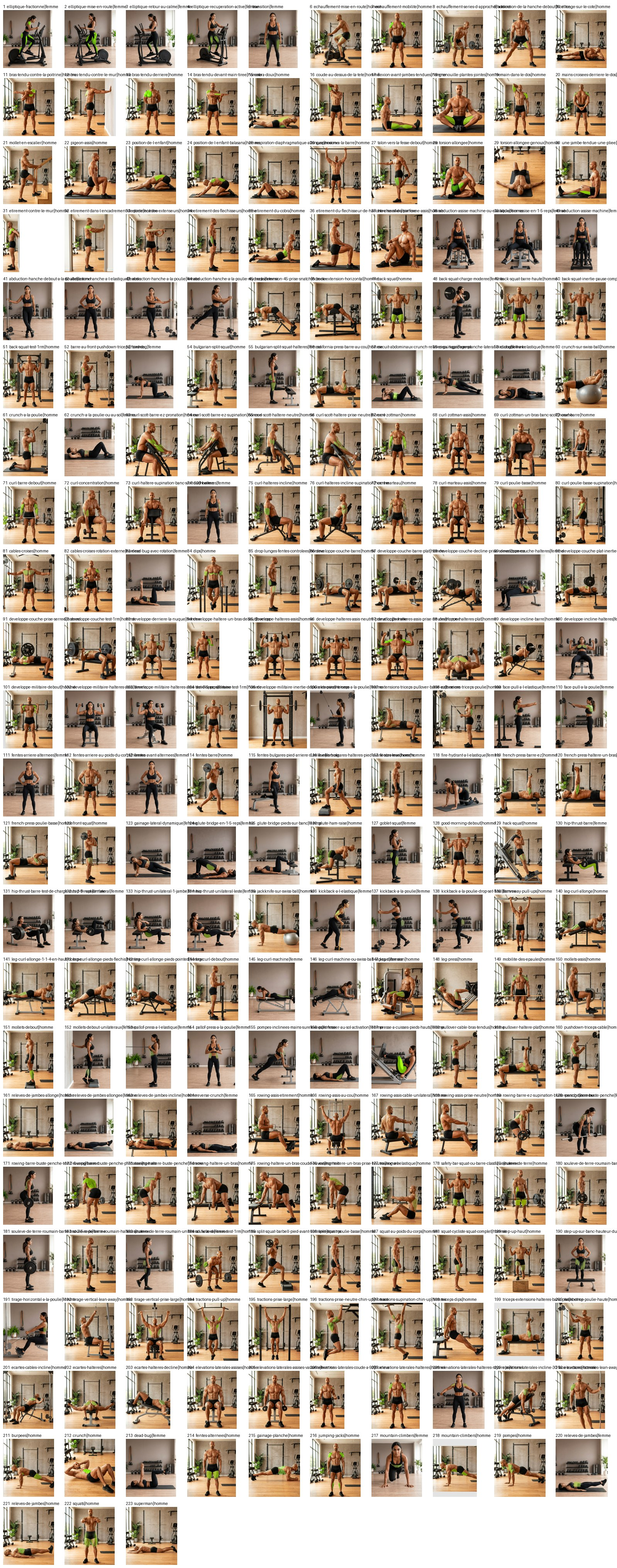
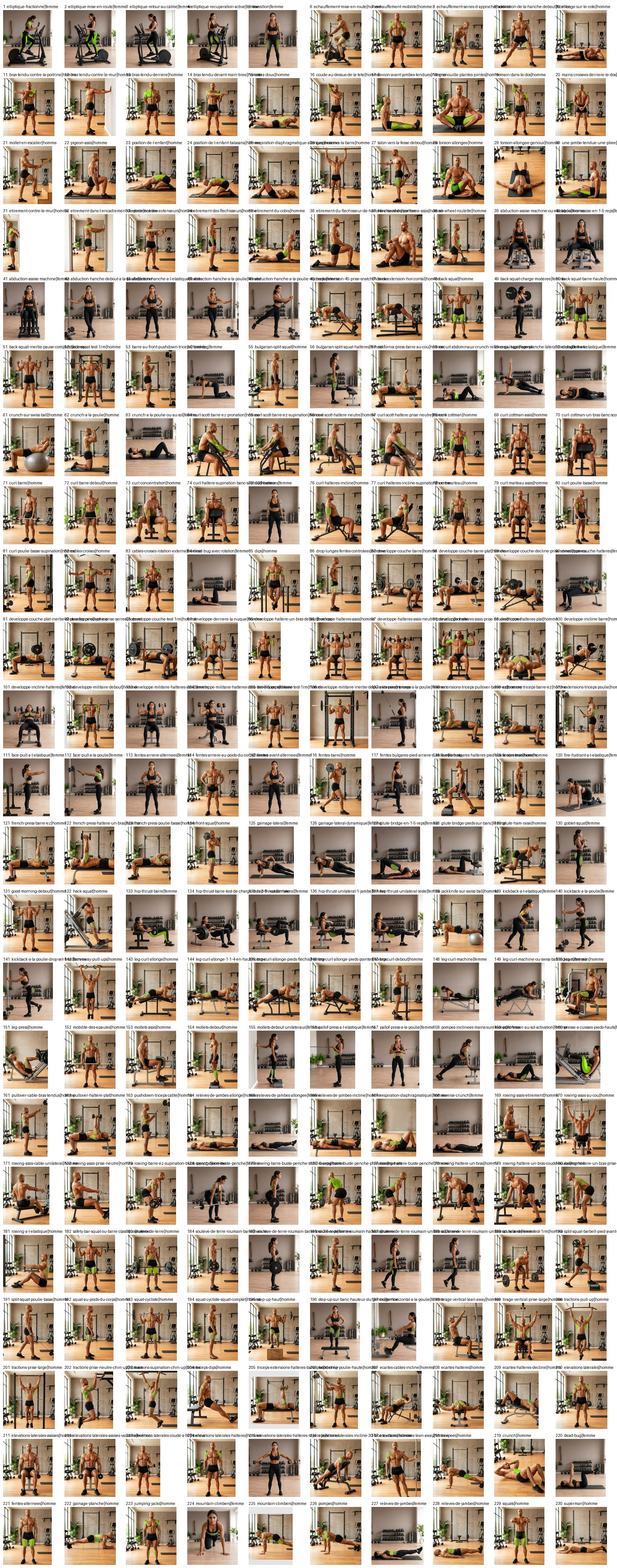
Lot 34 : ab-wheel et extensions EZ RESOLUS + 5 acceptees ; 3 refus (tirage neutre pronation, rack pull sans depart, mollets pied au sol) ; relecture-15 3/3 ; etat 230/331, 101 restants

diff --git a/evolution/media/refonte-photo/PASSATION-NOUVEAU-CHAT.md b/evolution/media/refonte-photo/PASSATION-NOUVEAU-CHAT.md
@@ -10,18 +10,18 @@ session neuve (sans mémoire de la conversation précédente) puisse continuer s
 - Dépôt : `Yandevil974/JARVIS-Fitness-Yanis-Emilie.apk`
 - Branche de travail **obligatoire** : `arena/01a0d6f5-jarvis-fitness-yanis-emilie-ap`
   (session Arena courante ; ne jamais pousser sur `main`, ne jamais créer d'autre branche).
-- Avancement : **223 / 331 animations validées** (`production/etat.json`, clé `chiffres`).
-  Restent **108** : piscine (protocoles) 40, tabata au sol 27, piscine (guides) 9,
-  aqua tabata 6, musculation 26.
+- Avancement : **230 / 331 animations validées** (`production/etat.json`, clé `chiffres`).
+  Restent **101** : piscine (protocoles) 40, tabata au sol 27, musculation 19,
+  piscine (guides) 9, aqua tabata 6.
   Terminés : **étirements 29 ✅, elliptique 5 ✅, échauffement 3 ✅**.
 - **Vérification des mouvements déjà créés (25/09)** : 70 couples relus case par case
   (`verification/VERIFICATION-2026-09-25.md`) ; 7 gestes faux trouvés parmi les livrés
   (4 refaits et acceptés au lot 17 ; 3 retirés des valides ce tour : back-squat-barre-haute,
-  back-squat-inertie-pause-complete, burpees) ; **47 couples restent à relire** (feuilles de 3,
-  176 déjà relus).
+  back-squat-inertie-pause-complete, burpees) ; **40 couples restent à relire** (feuilles de 3,
+  190 déjà relus).
   Style : 21 GIF ont une case sans vert lime (`production/style-a-reprendre.json`),
   à reprendre dans un lot dédié sans toucher aux gestes.
-- Index visuel numéroté : `review/index-general.jpg` (223 vignettes, régénéré à chaque lot).
+- Index visuel numéroté : `review/index-general.jpg` (230 vignettes, régénéré à chaque lot).
 
 ## 2. Ce que l'utilisateur a demandé (et qui ne change pas)
 
@@ -117,13 +117,13 @@ $P evolution/media/tools/refonte-sheet.py --athlete homme --out $R/gif/homme \
 
 ## 7. À faire au démarrage du nouveau chat
 
-1. Reprendre les **2 planches en attente** (`production/a-refaire.json`) : ab-wheel-roulette
-   (2ᵉ refus, corps dupliqué → « EXACTLY ONE person per panel ») et extensions-triceps-barre-ez
-   (retirée à la relecture-14, orientation inversée → régénération avec ancre de tête).
-   Résolus au lot 33 : developpe-incline-halteres (vue de FACE pied de banc, 4ᵉ refus effacé)
-   et tirage-vertical-prise-large (format 2 panneaux paysage). Mountain climbers résolue au
-   lot 31 par la vue de FACE. Anciennement en attente : mountain-climbers, developpe-incline,
-   tirage-vertical
+1. Reprendre les **3 planches en attente** (`production/a-refaire.json`) : tirage-vertical-prise-neutre
+   (prise pronation au lieu de neutre → poignées parallèles), souleve-de-terre-partiel (deux lockouts →
+   départ fléchi sur pins imposé), mollets-unilateraux (pied libre au sol → croisé en l'air).
+   Résolus au lot 34 : ab-wheel-roulette (« EXACTLY ONE person per panel ») et extensions-triceps-barre-ez
+   (ancre de tête). Résolus au lot 33 : developpe-incline-halteres (vue de FACE pied de banc) et
+   tirage-vertical-prise-large (format 2 panneaux). Mountain climbers résolue au lot 31 (vue de FACE).
+   Anciennement en attente : mountain-climbers, developpe-incline, tirage-vertical, ab-wheel, extensions-ez
    (vue de FACE, genou avant côté gauche puis droit de l'image) et developpe-incline-halteres
    (deux haltères séparés, quatre disques). Méthode gagnante sur refus
    asymétrique : éditer la case réussie pour fabriquer l'autre. L'audit réalisme est clos : ses 6 remplacements

diff --git a/CE-QUI-COINCE.md b/CE-QUI-COINCE.md
@@ -1,20 +1,21 @@
-# 🚧 Ce qui coince — état au 25 septembre 2026, après lot 33
+# 🚧 Ce qui coince — état au 25 septembre 2026, après lot 34
 
 Liste demandée pour revue de votre côté. Tout le reste du flux tourne normalement
-(**223 / 331** visuels validés, 108 restants) ; ce fichier ne contient que les points
+(**230 / 331** visuels validés, 101 restants) ; ce fichier ne contient que les points
 bloquants ou qui demandent une décision.
 
-## 1. Les 2 planches encore refusées (je continue dessus au prochain tour)
+## 1. Les 3 planches encore refusées (je continue dessus au prochain tour)
 
 | Mouvement | Ce qui coince, mesuré | Déjà essayé | Solution prévue au prochain tour | Décision attendue de vous |
 |---|---|---|---|---|
-| **Ab wheel / roulette (homme)** — 2 refus | lot33 : case 1 = deux personnages (corps dupliqué), case 2 correcte | ancre d'orientation (lot32), planche paysage | **lot34 : « EXACTLY ONE person per panel »**, aucun second personnage, tête à gauche aux deux cases | aucune |
-| **Extensions triceps barre EZ (homme)** — retirée à la relecture | orientation de la tête inversée entre les deux cases (l'échange PIL du lot32 avait corrigé l'ordre des cases, pas l'orientation) | cases inversées puis échange PIL | **lot34 : régénération complète** avec ancre « head faces LEFT in BOTH panels », départ barre au front / fin bras tendus | aucune |
+| **Tirage vertical prise neutre (femme)** — 1 refus | la prise est montrée en pronation large sur barre droite, pas en prise neutre | format 2 panneaux paysage (OK par ailleurs) | lot35 : « TWO PARALLEL VERTICAL HANDLES, palms facing each other, NOT a wide pronated grip » | aucune |
+| **Soulevé de terre partiel (homme)** — 1 refus | les deux cases montrent le lockout debout : aucune position de départ fléchie sur les pins | vue de face, pins sous les genoux | lot35 : imposer LEFT buste penché ~45° barre SUR les pins / RIGHT debout, cases obligatoirement différentes | aucune |
+| **Mollets unilatéraux (homme)** — 1 refus | le pied libre touche le sol aux deux cases (donc pas unilatéral) | ancre d'orientation, marche basse | lot35 : pied libre CROISÉ derrière la cheville porteuse, en l'air aux deux cases | aucune |
 
-Clos ce tour : **developpé incliné haltères RÉSOLU (4ᵉ refus) par la vue de FACE pied de
-banc** (deux haltères séparés de part et d'autre du buste) ; **tirage vertical prise large
-RÉSOLU** par la consigne de format 2 panneaux paysage ; kickback poulie, hip thrust
-unilatéral lesté, pallof press poulie, pushdown triceps, curl Scott neutre, leg press.
+Clos ce tour : **ab-wheel RÉSOLU** (« EXACTLY ONE person per panel », 2ᵉ refus effacé) et
+**extensions triceps barre EZ RÉSOLUE** (régénération avec ancre de tête, retrait relecture
+effacé) ; + gainage latéral, soulevé de terre roumain unilatéral, respiration
+diaphragmatique, squat cycliste, élévations latérales.
 
 ## 2. Blocs techniques récurrents du générateur d'images (constats, pas des excuses)
 

diff --git a/evolution/media/refonte-photo/verification/VERIFICATION-2026-09-25.md b/evolution/media/refonte-photo/verification/VERIFICATION-2026-09-25.md
@@ -346,3 +346,26 @@ valides relus**, **47 restent a relire**. **2 planches en attente** dans
 `production/a-refaire.json` : ab-wheel-roulette (2e refus), extensions-triceps-barre-ez
 (retiree a la relecture). Prochain lot 34 : ces 2 planches + 8 planches (musculation 26
 puis tabata au sol 27).
+
+## 39. Lot 34 : un seul personnage et ancre de tete (meme tour)
+
+Ab wheel : consigne EXACTLY ONE person per panel -> plus de corps duplique, orientation
+coherente aux deux cases : **2e refus efface**. Extensions triceps barre EZ : regeneration
+avec ancre « head faces LEFT in BOTH panels » -> ordre ET orientation corrects : **retrait
+relecture efface**. Acceptees 7 : ab-wheel-roulette, extensions-triceps-barre-ez,
+gainage-lateral (planche laterale, bras au plafond), souleve-de-terre-roumain-unilateral
+(haltere main opposee, jambe libre tendue), respiration-diaphragmatique (ventre plat->
+souleve), squat-cycliste (talons sur plots, squat complet), elevations-laterales.
+Refusees 3 : tirage-vertical-prise-neutre (prise montree pronation large), souleve-de-terre-partiel
+(deux lockouts, pas de depart sur pins), mollets-unilateraux (pied libre au sol).
+Relecture batch 15 : 3/3 conformes (fentes-marchees, flexion-avant-jambes-tendues, front-squat).
+Feuilles : `verification/lot34b-01..04.jpg`, `verification/relecture-15.jpg`.
+
+## 40. Couverture et suite (etat lot 34)
+
+**230 / 331 couples valides**, 101 restants (protocoles piscine 40, tabata au sol 27,
+musculation 19, piscine guides 9, aqua tabata 6). Relecture cumulative : **190 couples
+valides relus**, **40 restent a relire**. **3 planches en attente** dans
+`production/a-refaire.json` : tirage-vertical-prise-neutre, souleve-de-terre-partiel,
+mollets-unilateraux (1er refus chacun). Prochain lot 35 : ces 3 planches + 7 planches
+(musculation 19 puis tabata au sol 27).

diff --git a/PASSATION.md b/PASSATION.md
@@ -13,7 +13,7 @@ deux GIF distincts (l'un à l'homme, l'autre à la femme). L'écart inexpliqué 
 
 | Surface | Faits et vérifiés | Restants |
 |---|---|---|
-| Musculation | 176 | 26 |
+| Musculation | 183 | 19 |
 | Tabata au sol | 10 | 27 |
 | Étirements | 29 | 0 ✅ |
 | Piscine (guides) | 0 | 9 |
@@ -21,7 +21,7 @@ deux GIF distincts (l'un à l'homme, l'autre à la femme). L'écart inexpliqué 
 | Aqua Tabata | 0 | 6 |
 | Elliptique | 5 | 0 ✅ |
 | Échauffement | 3 | 0 ✅ |
-| **Total** | **223** | **108** |
+| **Total** | **230** | **101** |
 
 **25 septembre 2026 — reprise dans un nouveau chat : les mouvements déjà créés ont été
 vérifiés avant de produire.** 119 GIF livrés mesurés (`evolution/media/tools/verif-gifs.py` :
@@ -31,7 +31,7 @@ quasi-doubles) puis **38 relus case par case** en pleine définition
 (développé couché test 1RM montré assis, leg curl 1 1/4 cases inversées, dead bug rotation
 sans position dead bug, grenouille sans la posture prescrite) — refaits, relus et acceptés
 au **lot 17** avec 4 mouvements neufs (123 / 331). Deux planches restent en 3ᵉ essai
-(`production/a-refaire.json`), **47 couples valides restent à relire**, et 21 GIF ont une
+(`production/a-refaire.json`), **40 couples valides restent à relire**, et 21 GIF ont une
 case sans vert lime (`production/style-a-reprendre.json`, lot style dédié à venir).
 Détail mesuré : `evolution/media/refonte-photo/verification/VERIFICATION-2026-09-25.md`.
 
